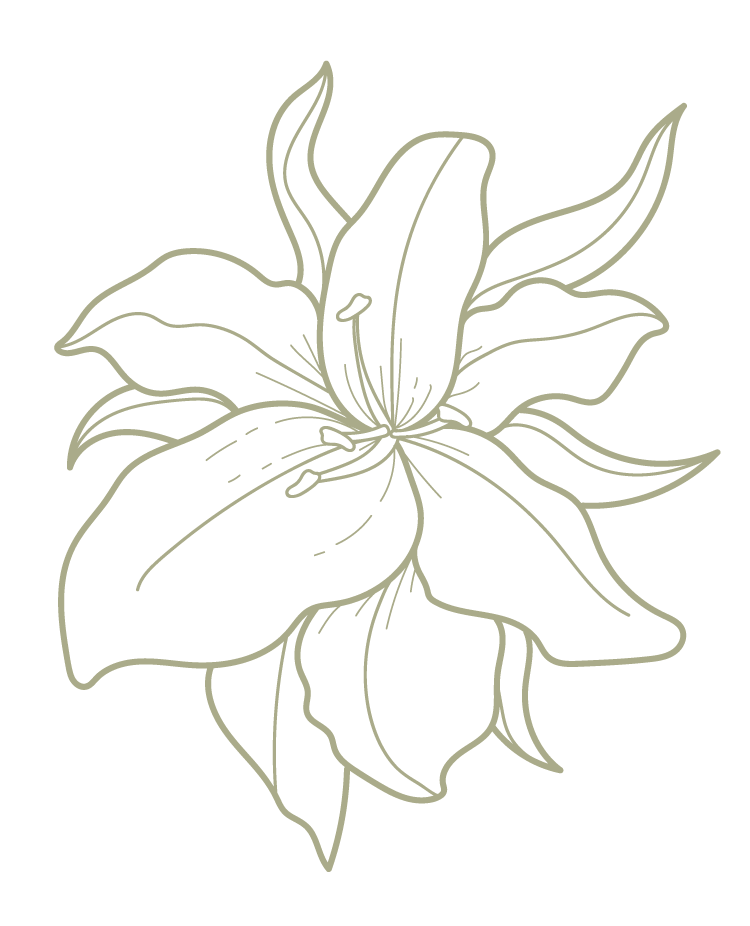
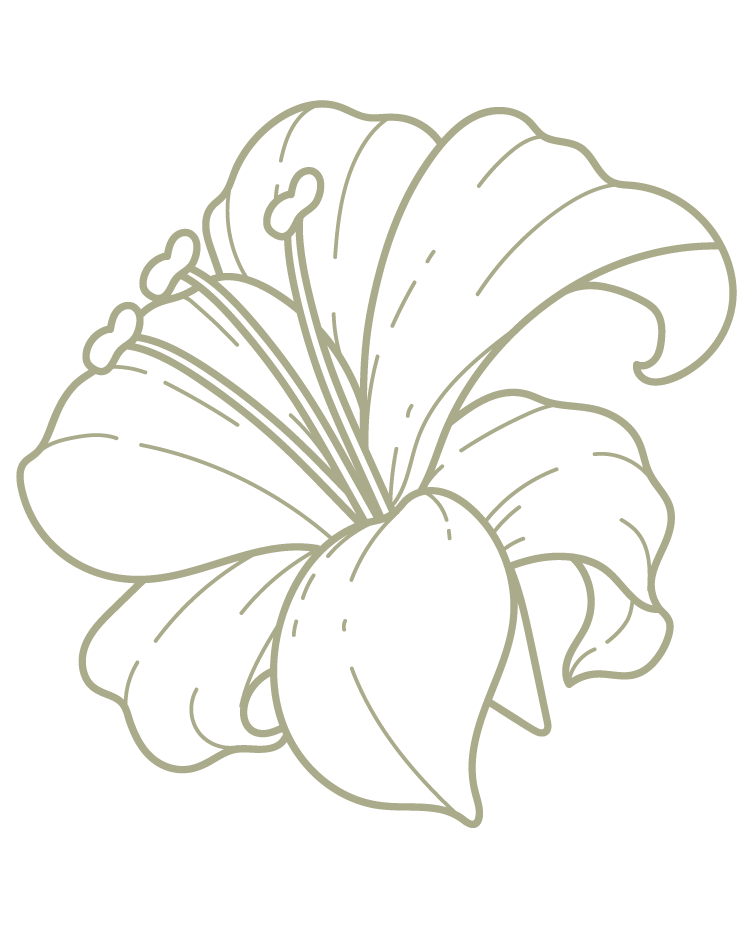
Home page: swap in the new lily behind the app screens

Changed region(s): [[0.0, 0.0605, 0.9813, 0.9374], [0.46, 0.6955, 0.4907, 0.7559], [0.276, 0.5443, 0.3067, 0.5745]]

diff --git a/client/src/home/home.css b/client/src/home/home.css
@@ -1108,7 +1108,7 @@ html:has(.hp) {
   top: -14%;
   width: min(62%, 420px);
   aspect-ratio: 750 / 926;
-  background: url("/lily-bloom.png") center / contain no-repeat;
+  background: url("/lily-bloom.png?v=2") center / contain no-repeat;
   opacity: 0;
   transition: opacity 1.2s ease;
   pointer-events: none;
